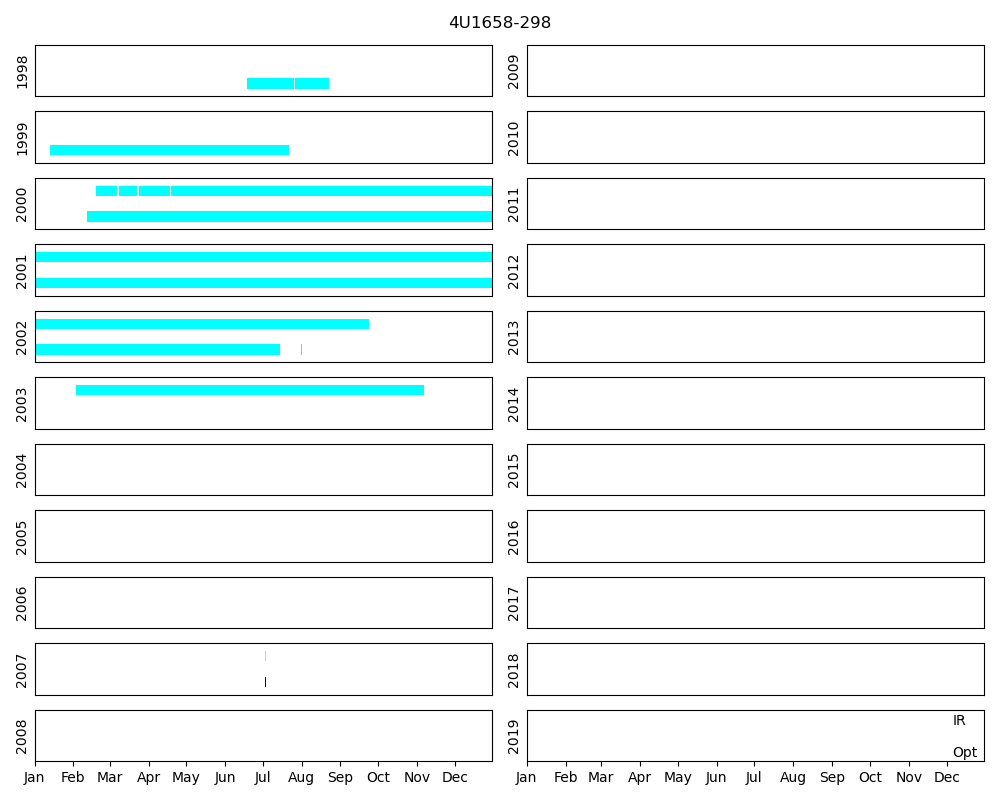
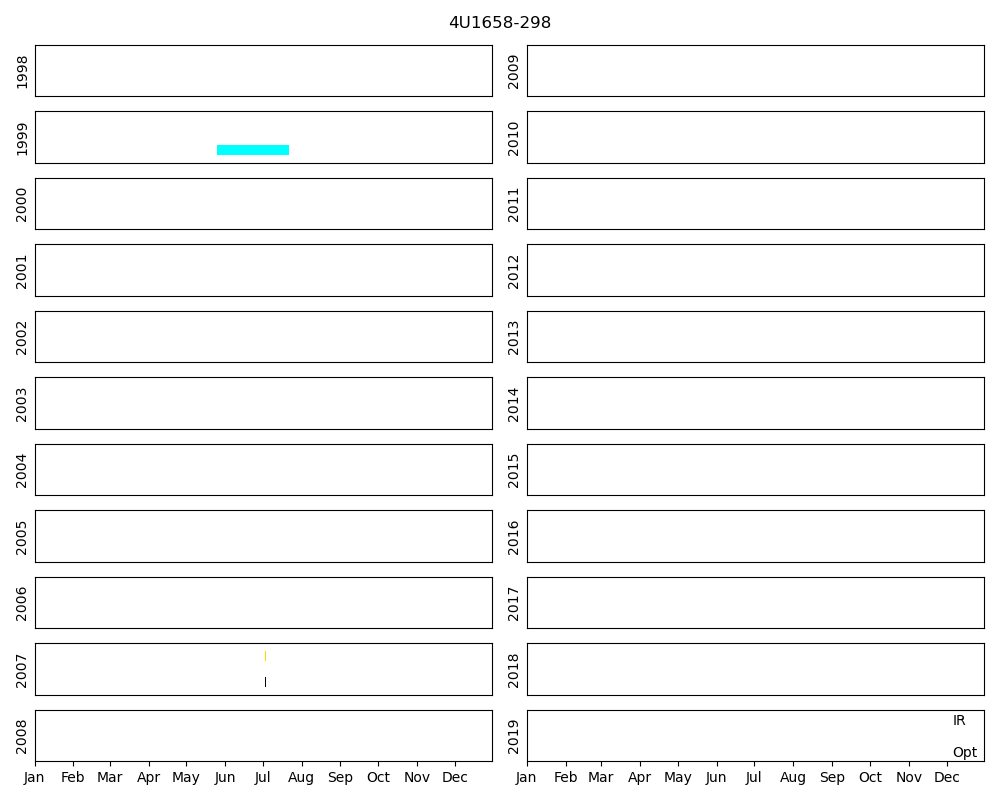
okay for real now updated calendars

Changed region(s): [[0.031, 0.3125, 0.496, 0.5], [0.062, 0.1562, 0.496, 0.2812], [0.248, 0.0938, 0.341, 0.125]]

diff --git a/full_cal_plots.py b/full_cal_plots.py
@@ -76,7 +76,7 @@ for name in xrb_list:
     for id, year in enumerate(years):
         yrtable = g.loc[g['DATE-OBS'].dt.year == year]
         if len(gtape)>0:
-            yrtable3 = tapes.loc[tapes['Start Date'].dt.year == year]
+            yrtable3 = gtape.loc[gtape['Start Date'].dt.year == year]
             for jd, row in yrtable3.iterrows():
                 start=row['Start Date']
                 end=row['End Date']
